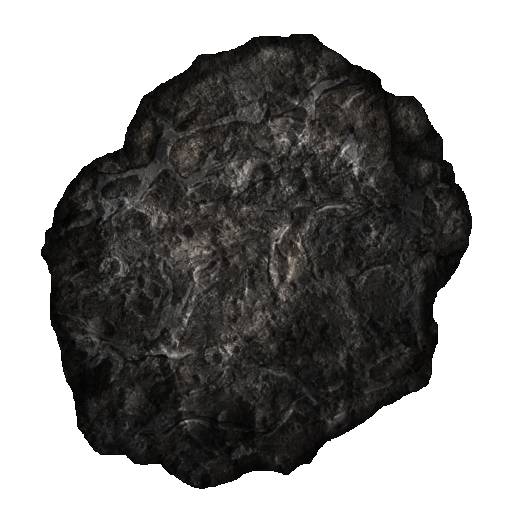
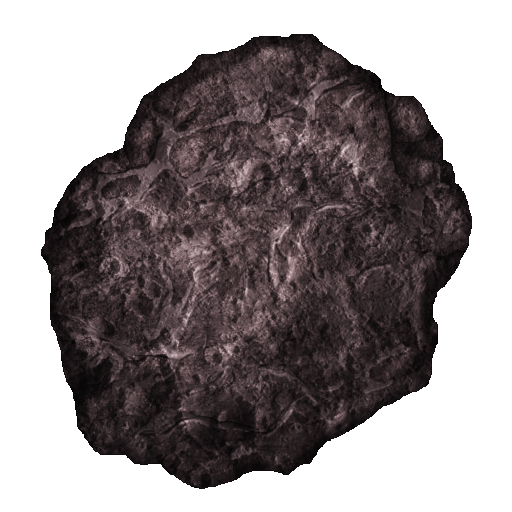
video 2 preps: better distinction between space deco & not-deco

diff --git a/main/src/com/miloshpetrov/sol2/Const.java b/main/src/com/miloshpetrov/sol2/Const.java
@@ -15,9 +15,9 @@ public class Const {
   public static final String CONFIGS_DIR = "res/configs/";
   public static final float IMPULSE_TO_COLL_VOL = 2f;
 
-  public static final float CAM_VIEW_DIST_GROUND = 3.3f;
+  public static final float CAM_VIEW_DIST_GROUND = 2.8f;
   public static final float AI_SHOOT_DIST_GROUND = CAM_VIEW_DIST_GROUND * .4f;
-  public static final float CAM_VIEW_DIST_SPACE = 5.1f;
+  public static final float CAM_VIEW_DIST_SPACE = 4.5f;
   public static final float AI_SHOOT_DIST_SPACE = CAM_VIEW_DIST_SPACE * .8f;
   public static final float AI_DET_DIST = CAM_VIEW_DIST_SPACE * 1.2f;
   public static final float CAM_VIEW_DIST_JOURNEY = 8.6f;

diff --git a/main/src/com/miloshpetrov/sol2/game/chunk/ChunkFiller.java b/main/src/com/miloshpetrov/sol2/game/chunk/ChunkFiller.java
@@ -174,7 +174,7 @@ public class ChunkFiller {
       float sz = SolMath.rnd(.3f, 1) * FAR_JUNK_MAX_SZ;
       Vector2 junkPos = getRndPos(chCenter);
       junkPos.sub(chCenter);
-      RectSprite s = new RectSprite(tex, sz, 0, 0, junkPos, draLevel, SolMath.rnd(180), SolMath.rnd(FAR_JUNK_MAX_ROT_SPD), Col.G, false);
+      RectSprite s = new RectSprite(tex, sz, 0, 0, junkPos, draLevel, SolMath.rnd(180), SolMath.rnd(FAR_JUNK_MAX_ROT_SPD), Col.DDG, false);
       dras.add(s);
     }
     DrasObj so = new DrasObj(dras, new Vector2(chCenter), new Vector2(), remover, false, true);
